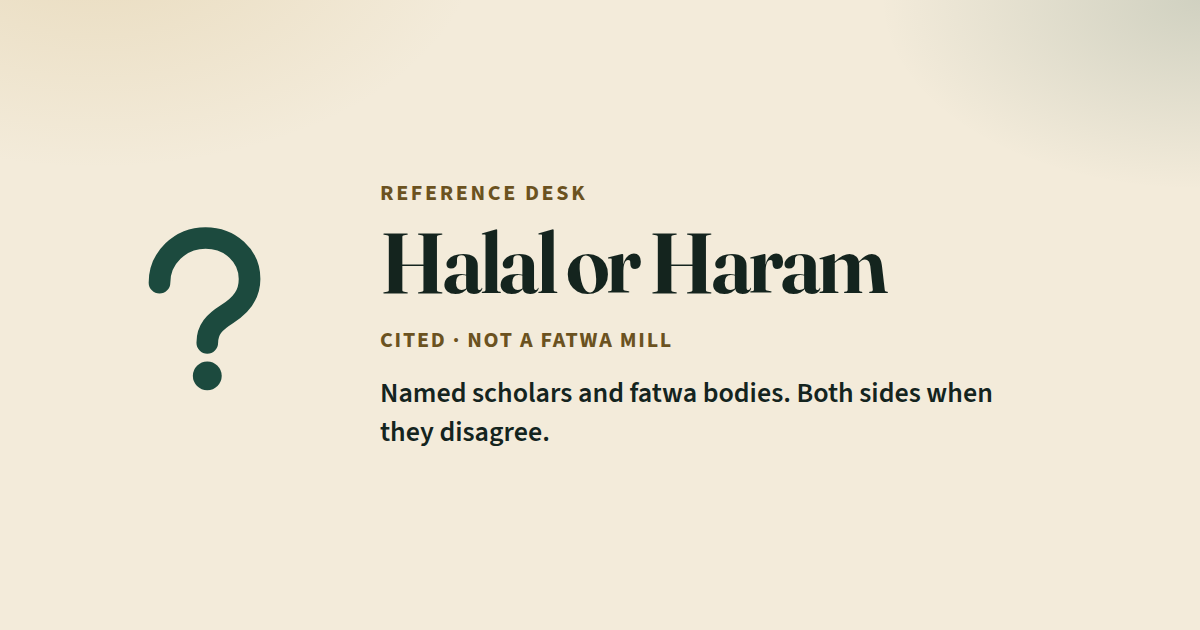
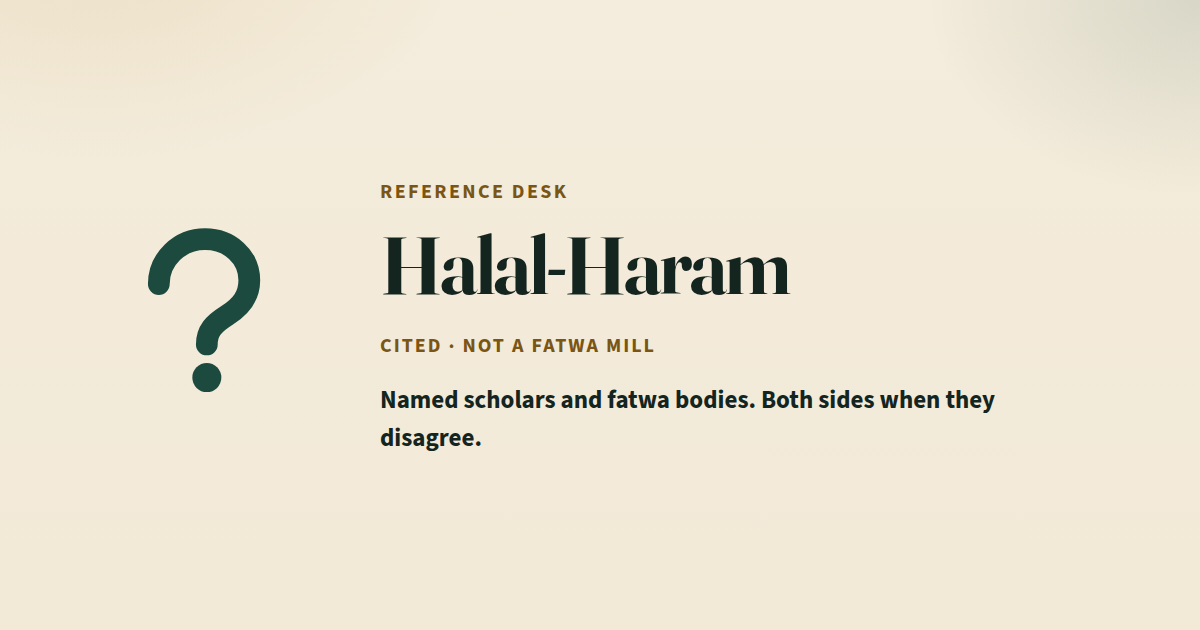
Rename the brand from "Halal or Haram" to "Halal-Haram"
- UI copy in every locale: brand, page/SEO title, About lead
  (EN/DE/FR "Halal-Haram", AR "حلال-حرام")
- Web manifest name/short_name, OG image alt, share fallback title
- OpenRouter app title (X-OpenRouter-Title) and system prompt app name
- Regenerated public/og.png with the new wordmark (same layout and fonts)
- README title

URLs and the canonical domain are unchanged.

Claude-Session: https://claude.ai/code/session_01S1S8M4FCrGSPCrWV6fyh2C

diff --git a/src/client/i18n/messages.ts b/src/client/i18n/messages.ts
@@ -1,9 +1,9 @@
 export const messages = {
   en: {
-    brand: 'Halal or Haram',
+    brand: 'Halal-Haram',
     brandLine: 'Cited · not a fatwa mill',
     seo: {
-      title: 'Halal or Haram · cited lookup',
+      title: 'Halal-Haram · cited lookup',
       description:
         'Look up halal (permitted in Islam), haram (not permitted), or unclear (scholars disagree) with named scholars and fatwa bodies. When sources disagree, both sides stay on the page. Cited, not a fatwa mill.',
     },
@@ -102,7 +102,7 @@ export const messages = {
     },
     about: {
       title: 'A cited lookup, not a fatwa.',
-      lead: 'Halal or Haram is a reference desk. It reports published positions of named authorities. It is not a fatwa mill, and it is not a substitute for a qualified scholar.',
+      lead: 'Halal-Haram is a reference desk. It reports published positions of named authorities. It is not a fatwa mill, and it is not a substitute for a qualified scholar.',
       sourcesTitle: 'Named sources',
       sourcesLead:
         'The starter library cites these texts and desks. Each link is the site those citations already use, not a separate ruling.',
@@ -232,10 +232,10 @@ export const messages = {
     },
   },
   ar: {
-    brand: 'حلال أم حرام',
+    brand: 'حلال-حرام',
     brandLine: 'موثّق · ليست مطحنة فتاوى',
     seo: {
-      title: 'حلال أم حرام · بحث موثّق',
+      title: 'حلال-حرام · بحث موثّق',
       description:
         'ابحث عن حلال (مباح في الإسلام) أو حرام (غير مباح) أو غير واضح (اختلف العلماء) مع أسماء العلماء ودور الإفتاء. إذا اختلفت المصادر يبقى الطرفان. موثّق، وليست مطحنة فتاوى.',
     },
@@ -328,7 +328,7 @@ export const messages = {
     },
     about: {
       title: 'بحث موثّق، وليس فتوى.',
-      lead: '«حلال أم حرام» مكتب مراجع. يعرض مواقف منشورة لجهات مسمّاة. ليس مطحنة فتاوى، وليس بديلًا عن عالم مؤهّل.',
+      lead: '«حلال-حرام» مكتب مراجع. يعرض مواقف منشورة لجهات مسمّاة. ليس مطحنة فتاوى، وليس بديلًا عن عالم مؤهّل.',
       sourcesTitle: 'المصادر المسمّاة',
       sourcesLead: 'تستشهد مجموعة البداية بهذه النصوص والجهات. كل رابط هو موقع تلك الاستشهادات فعلًا، وليس حكمًا منفصلًا.',
       notTitle: 'ما ليس هذا الموقع',
@@ -456,10 +456,10 @@ export const messages = {
     },
   },
   de: {
-    brand: 'Halal oder Haram',
+    brand: 'Halal-Haram',
     brandLine: 'Belegt · keine Fatwa-Mühle',
     seo: {
-      title: 'Halal oder Haram · belegtes Nachschlagen',
+      title: 'Halal-Haram · belegtes Nachschlagen',
       description:
         'Halal (im Islam erlaubt), Haram (nicht erlaubt) oder unklar (Gelehrte sind uneins) nachschlagen, mit benannten Gelehrten und Fatwa-Stellen. Wenn Quellen widersprechen, bleiben beide Seiten auf der Seite. Belegt, keine Fatwa-Mühle.',
     },
@@ -559,7 +559,7 @@ export const messages = {
     },
     about: {
       title: 'Ein belegtes Nachschlagen, keine Fatwa.',
-      lead: 'Halal oder Haram ist ein Nachschlagewerk. Es gibt veröffentlichte Positionen benannter Autoritäten wieder. Es ist keine Fatwa-Mühle und kein Ersatz für einen qualifizierten Gelehrten.',
+      lead: 'Halal-Haram ist ein Nachschlagewerk. Es gibt veröffentlichte Positionen benannter Autoritäten wieder. Es ist keine Fatwa-Mühle und kein Ersatz für einen qualifizierten Gelehrten.',
       sourcesTitle: 'Benannte Quellen',
       sourcesLead:
         'Der Startbestand zitiert diese Texte und Stellen. Jeder Link ist die Website, die jene Belege bereits nutzen, kein eigenes Urteil.',
@@ -689,10 +689,10 @@ export const messages = {
     },
   },
   fr: {
-    brand: 'Halal ou Haram',
+    brand: 'Halal-Haram',
     brandLine: 'Cité · pas un moulin à fatwas',
     seo: {
-      title: 'Halal ou Haram · recherche citée',
+      title: 'Halal-Haram · recherche citée',
       description:
         'Recherchez halal (permis en islam), haram (non permis) ou incertain (les savants divergent) avec des savants et des instances de fatwa nommés. Si les sources divergent, les deux avis restent sur la page. Cité, pas un moulin à fatwas.',
     },
@@ -792,7 +792,7 @@ export const messages = {
     },
     about: {
       title: 'Une recherche citée, pas une fatwa.',
-      lead: 'Halal ou Haram est un bureau de référence. Il rapporte des positions publiées d’autorités nommées. Ce n’est pas un moulin à fatwas, et cela ne remplace pas un savant qualifié.',
+      lead: 'Halal-Haram est un bureau de référence. Il rapporte des positions publiées d’autorités nommées. Ce n’est pas un moulin à fatwas, et cela ne remplace pas un savant qualifié.',
       sourcesTitle: 'Sources nommées',
       sourcesLead:
         'Le fonds de départ cite ces textes et ces instances. Chaque lien est le site que ces citations utilisent déjà, pas un avis distinct.',

diff --git a/lib/openrouter.ts b/lib/openrouter.ts
@@ -55,7 +55,7 @@ interface CompletionArgs {
 
 type SendOutcome = { ok: true; result: ChatResult } | { ok: false; status: number }
 
-const APP_TITLE = 'Halal or Haram'
+const APP_TITLE = 'Halal-Haram'
 const DEFAULT_MODEL = 'nvidia/nemotron-3-ultra-550b-a55b:free'
 /** Must stay below api/verdict.js / vercel.json maxDuration (60s) with room for the handler backup. */
 export const REQUEST_BUDGET_MS = 55_000
@@ -81,7 +81,7 @@ export function buildSystemPrompt(locale?: unknown): string {
   const resolved = resolveLocale(locale)
   const language = languageName(resolved)
 
-  return `You are a cautious Islamic research assistant for a consumer web app called "Halal or Haram".
+  return `You are a cautious Islamic research assistant for a consumer web app called "Halal-Haram".
 
 Rules you MUST follow:
 - Never claim one universal ruling for all Muslims. Always name the authority ("according to whom").

diff --git a/lib/site-metadata.ts b/lib/site-metadata.ts
@@ -18,7 +18,7 @@ export const siteMetadata = {
     url: `${SITE_ORIGIN}/og.png`,
     width: 1200,
     height: 630,
-    alt: 'Halal or Haram ask-mark on a cream field. Cited, not a fatwa mill.',
+    alt: 'Halal-Haram ask-mark on a cream field. Cited, not a fatwa mill.',
   },
   ogLocale: 'en_US',
   ogAlternateLocales: ['ar_AR', 'de_DE', 'fr_FR'],

diff --git a/src/client/shareVerdict.ts b/src/client/shareVerdict.ts
@@ -52,7 +52,7 @@ export function buildVerdictShare({
   const clipboard = [text, url].filter(Boolean).join('\n\n')
 
   return {
-    title: headline || subject || 'Halal or Haram',
+    title: headline || subject || 'Halal-Haram',
     text,
     url,
     clipboard,

diff --git a/README.md b/README.md
@@ -1,4 +1,4 @@
-# Halal or Haram (`halalharam`)
+# Halal-Haram (`halalharam`)
 
 Instant **halal / haram / unclear** verdicts with **cited sources**. Every result names **according to whom**. This app never claims one universal ruling for all Muslims.
 
